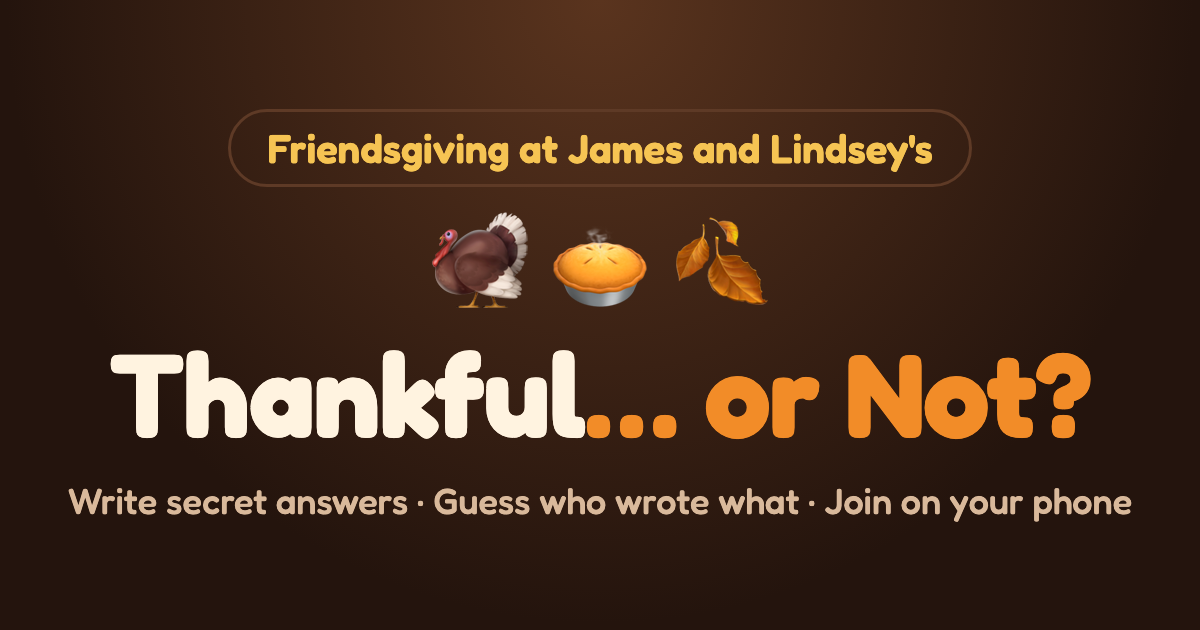
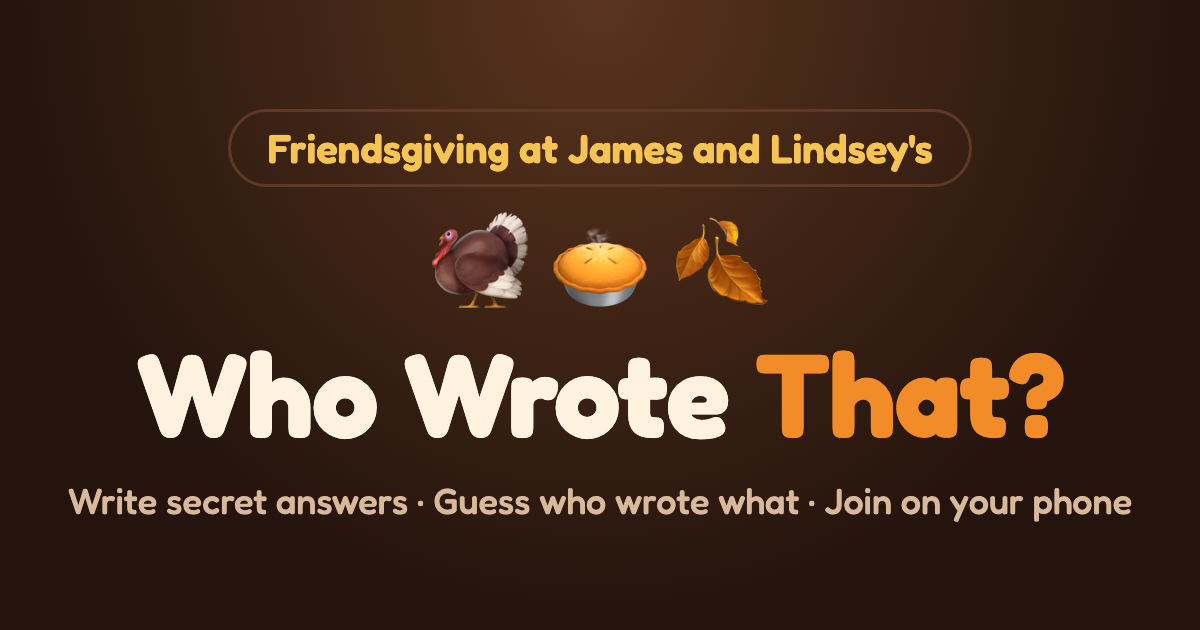
Rename game to Who Wrote That?

Changed region(s): [[0.0925, 0.5429, 0.925, 0.6937]]

diff --git a/index.html b/index.html
@@ -3,20 +3,20 @@
 <head>
 <meta charset="utf-8">
 <meta name="viewport" content="width=device-width,initial-scale=1,viewport-fit=cover">
-<title>Thankful… or Not?</title>
+<title>Who Wrote That? · Friendsgiving</title>
 <meta name="description" content="Friendsgiving at James and Lindsey's: write secret answers, then guess who wrote what. Join on your phone.">
 <link rel="icon" type="image/png" sizes="48x48" href="/favicon.png">
 <link rel="apple-touch-icon" href="/apple-touch-icon.png">
 <meta name="theme-color" content="#24140d">
 <meta property="og:type" content="website">
 <meta property="og:url" content="https://friendsgiving-game.netlify.app/">
-<meta property="og:site_name" content="Thankful… or Not?">
-<meta property="og:title" content="Thankful… or Not? · Friendsgiving at James and Lindsey's">
+<meta property="og:site_name" content="Who Wrote That?">
+<meta property="og:title" content="Who Wrote That? · Friendsgiving at James and Lindsey's">
 <meta property="og:description" content="Write secret answers, then guess who wrote what. Join on your phone.">
 <meta property="og:image" content="https://friendsgiving-game.netlify.app/og-image.png">
 <meta property="og:image:width" content="1200">
 <meta property="og:image:height" content="630">
-<meta property="og:image:alt" content="Thankful… or Not? Friendsgiving at James and Lindsey's">
+<meta property="og:image:alt" content="Who Wrote That? Friendsgiving at James and Lindsey's">
 <meta name="twitter:card" content="summary_large_image">
 <link rel="preconnect" href="https://fonts.googleapis.com">
 <link rel="preconnect" href="https://fonts.gstatic.com" crossorigin>
@@ -194,7 +194,7 @@ async function keepAwake() {
 }
 
 function title(size) {
-  return `<h1${size ? ` style="font-size:${size}"` : ''}>Thankful<span class="alt">… or Not?</span></h1>`;
+  return `<h1${size ? ` style="font-size:${size}"` : ''}>Who Wrote <span class="alt">That?</span></h1>`;
 }
 
 /* ---------- HOST (TV) ---------- */

diff --git a/README.md b/README.md
@@ -1,4 +1,4 @@
-# Thankful… or Not? 🦃
+# Who Wrote That? 🦃
 
 A Kahoot-style Friendsgiving party game. Everyone secretly answers prompts on their phone, then the group guesses who wrote each answer.
 
